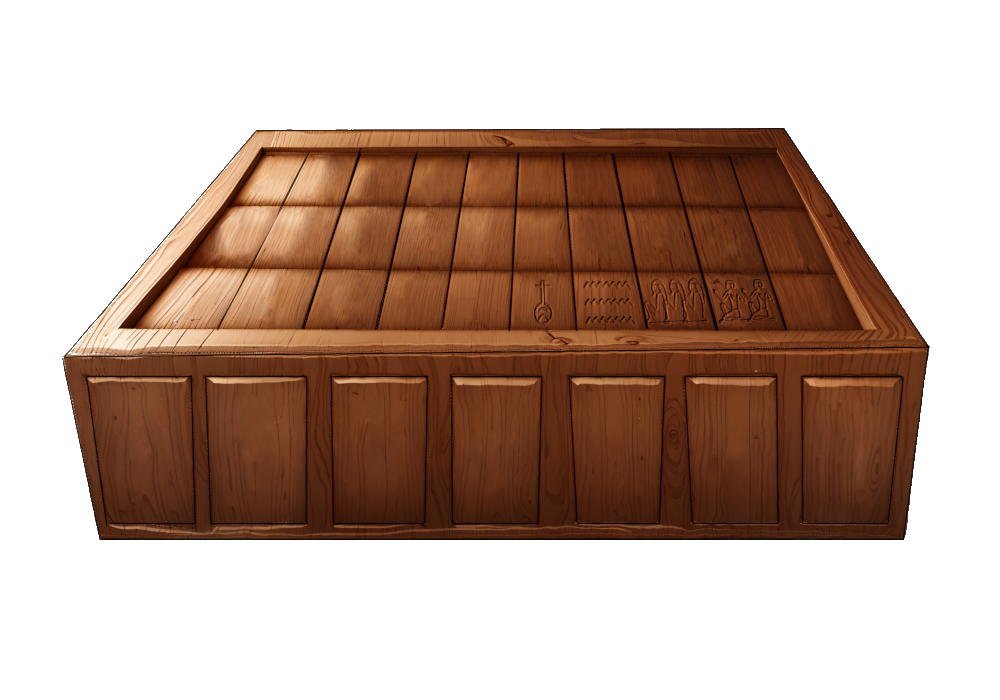
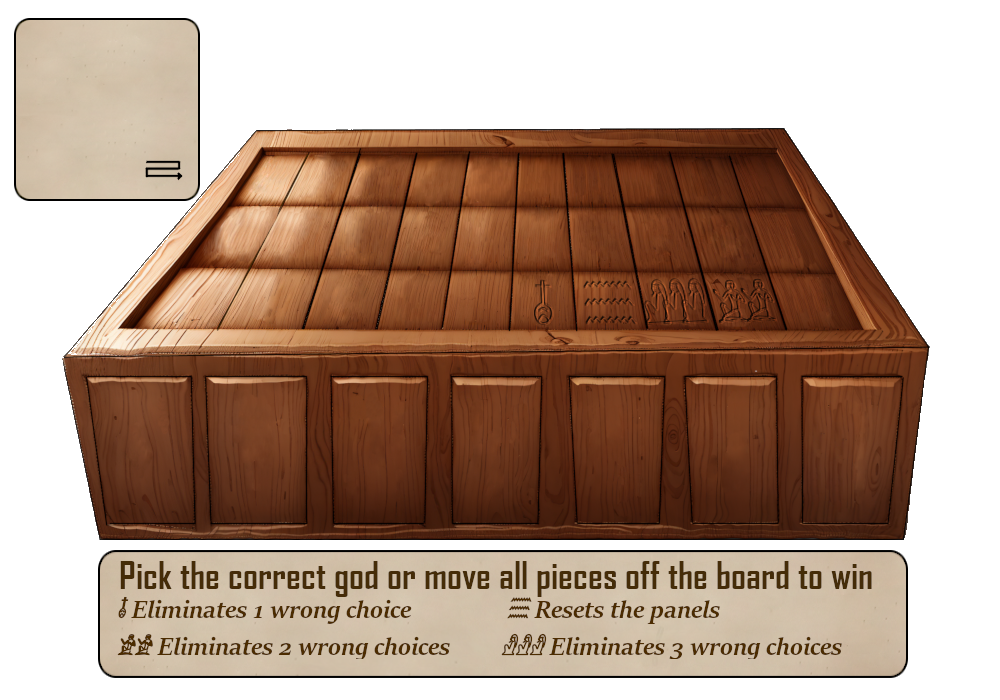
Updated Senet minigame graphic to show instructions and the last roll

Changed region(s): [[0.093, 0.78, 0.93, 0.99], [0.0, 0.0, 0.217, 0.3]]

diff --git a/UI/SenetPanel.cs b/UI/SenetPanel.cs
@@ -307,13 +307,25 @@ public class SenetGame
         }
     }
 
-    public int Roll()
+    public int Roll(SenetPanel panel)
     {
         int sum = 0;
         for (int i = 0; i < 4; i++)
             sum += Globals.Rand.Next(0, 2);
+
+        for (int i = 0; i < panel.Sticks.Elements.Count; i++)
+        {
+            if (i < sum)
+                panel.Sticks.Elements[i].Image.SpriteColor = Color.DarkRed;
+            else if (panel.Sticks.Elements[i].Image != null)
+                panel.Sticks.Elements[i].Image.SpriteColor = Color.White;
+        }
+
         if (sum == 0)
             sum = 5;
+
+        panel.RollNumber.Text = $"{sum}";
+
         return sum;
     }
 
@@ -420,7 +432,7 @@ public class SenetGame
 
     public void MovePlayer1(SenetPanel panel)
     {
-        Movement(panel, Selected, Selected.MoveForward(Board, Roll()));
+        Movement(panel, Selected, Selected.MoveForward(Board, Roll(panel)));
 
         for (int i = 0; i < Player2Pieces.Length; i++)
         {
@@ -432,7 +444,7 @@ public class SenetGame
 
     public void MovePlayer2(SenetPanel panel)
     {
-        Movement(panel, Selected, Selected.MoveForward(Board, Roll()));
+        Movement(panel, Selected, Selected.MoveForward(Board, Roll(panel)));
         
         for (int i = 0; i < Player1Pieces.Length; i++)
         {
@@ -451,22 +463,47 @@ public class SenetPanel : CloseablePanel
 
     public VBox MyLayout;
     public HBox godButtons;
+    public HBox Sticks;
+    public TextSprite RollNumber;
 
     public SenetPanel() : base(Sprites.SenetBoard)
     {
         MyLayout = new();
-        MyLayout.SetMargin(top: 373, left: 93);
+        //MyLayout.SetMargin(top: 373, left: 93);
+        MyLayout.SetMargin(top: 29, left: 25);
         MyLayout.OnClick = null;
         Add(MyLayout);
 
         Draggable = false;
 
+        // Roll button in the top-left
+        UIElement rollButton = new(Sprites.SenetRoll, hoverImage: Sprites.SenetRollHover, onClick: Move);
+        MyLayout.Add(rollButton);
+        rollButton.SetPadding(bottom: 10);
+
+        // Sticks to show the roll below the button
+        Sticks = new();
+        for (int s = 0; s < 4; s++)
+        {
+            UIElement stick = new(Sprites.SenetStick);
+            stick.SetPadding(right: 5);
+            Sticks.Add(stick);
+        }
+        
+        Sticks.Elements[3].SetPadding(right: 13);
+        RollNumber = new(Sprites.Font, hasDropShadow: false);
+        Sticks.Add(RollNumber);
+
+        Sticks.SetPadding(bottom: 192);
+        MyLayout.Add(Sticks);
+
+        // god buttons below the roll panel, aligned with the background image
         int i = 0;
         godButtons = new();
 
         UIElement osirisButton = new(Sprites.Osiris, hoverImage: Sprites.OsirisHover, onClick: Globals.Model.Senet.Guess);
         osirisButton.UserData = i++;
-        osirisButton.SetPadding(right: 5);
+        osirisButton.SetPadding(left: 65, right: 5);
         godButtons.Add(osirisButton);
 
         UIElement setButton = new(Sprites.Set, hoverImage: Sprites.SetHover, onClick: Globals.Model.Senet.Guess);
@@ -501,6 +538,11 @@ public class SenetPanel : CloseablePanel
         MyLayout.Add(godButtons);
 
         SetDefaultPosition(new Vector2(Globals.WindowSize.X / 2 - Width() / 2, 50f));
+    }
+
+    public void Move(Object clicked)
+    {
+        Globals.Model.Senet.Move(this);
     }
 
     public void Update(Building building)

diff --git a/DataClasses/Sprites.cs b/DataClasses/Sprites.cs
@@ -137,6 +137,9 @@ static class Sprites
 	public static SpriteTexture SetHover;
 	public static SpriteTexture Thoth;
 	public static SpriteTexture ThothHover;
+	public static SpriteTexture SenetStick;
+	public static SpriteTexture SenetRoll;
+	public static SpriteTexture SenetRollHover;
 
 	// Map
 	public static List<SpriteTexture> desertTextures;
@@ -302,6 +305,9 @@ static class Sprites
 		SetHover = LoadTexture("UI_maybe/senet/setHover");
 		Thoth = LoadTexture("UI_maybe/senet/thoth");
 		ThothHover = LoadTexture("UI_maybe/senet/thothHover");
+		SenetStick = LoadTexture("UI_maybe/senet/stick");
+		SenetRoll = LoadTexture("UI_maybe/senet/rollButton");
+		SenetRollHover = LoadTexture("UI_maybe/senet/rollButtonHover");
 
 		// Misc
 		Coin = LoadTexture("misc/coin");

diff --git a/UI/TextSprite.cs b/UI/TextSprite.cs
@@ -36,7 +36,7 @@ public class TextSprite : UIElement, Drawable
         if (HasDropShadow)
             FontColor = Color.White;
         else
-            FontColor = Color.Blue;
+            FontColor = Color.Black;
 
         Transparency = 1f;
     }
